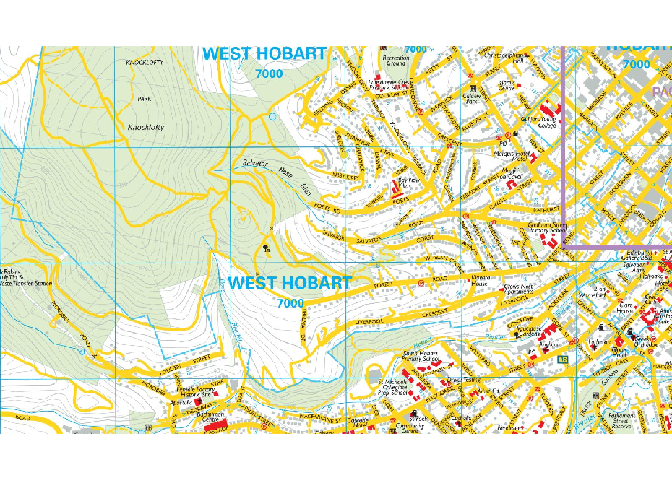
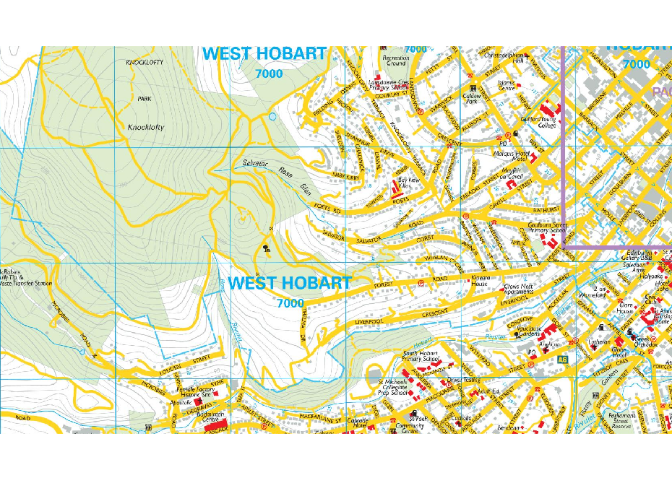
interpolate

diff --git a/README.md b/README.md
@@ -161,7 +161,7 @@ raster::plotRGB(xx)
 street <- "https://services.thelist.tas.gov.au/arcgis/rest/services/Raster/TTSA/MapServer/WMTS/1.0.0/WMTSCapabilities.xml"
 st <- wmts(street, raster::shift(zlocal, 5000, 5000), max_tiles = 36)
 #> zoom: 16
-raster::plotRGB(st)
+raster::plotRGB(st, interpolate = TRUE)
 ```
 
 <img src="man/figures/README-tassie-7.png" width="100%" />
